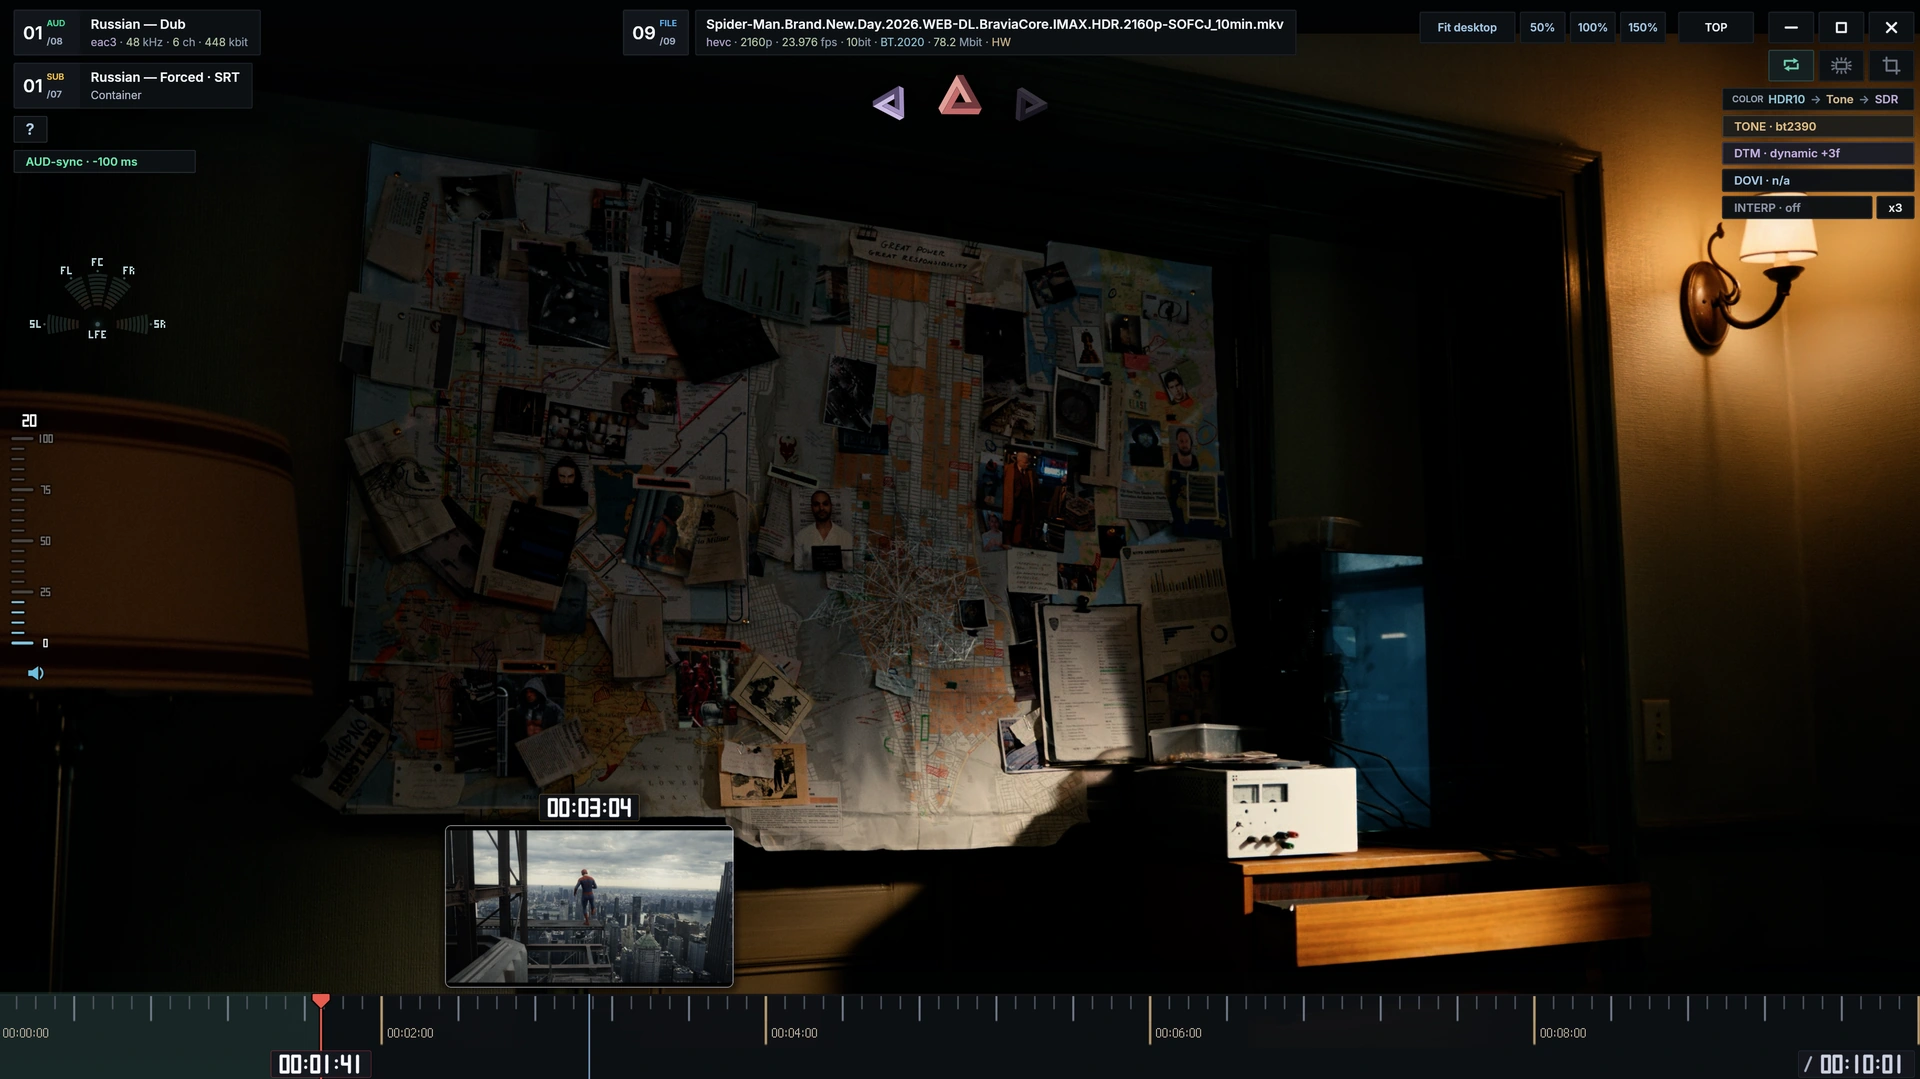
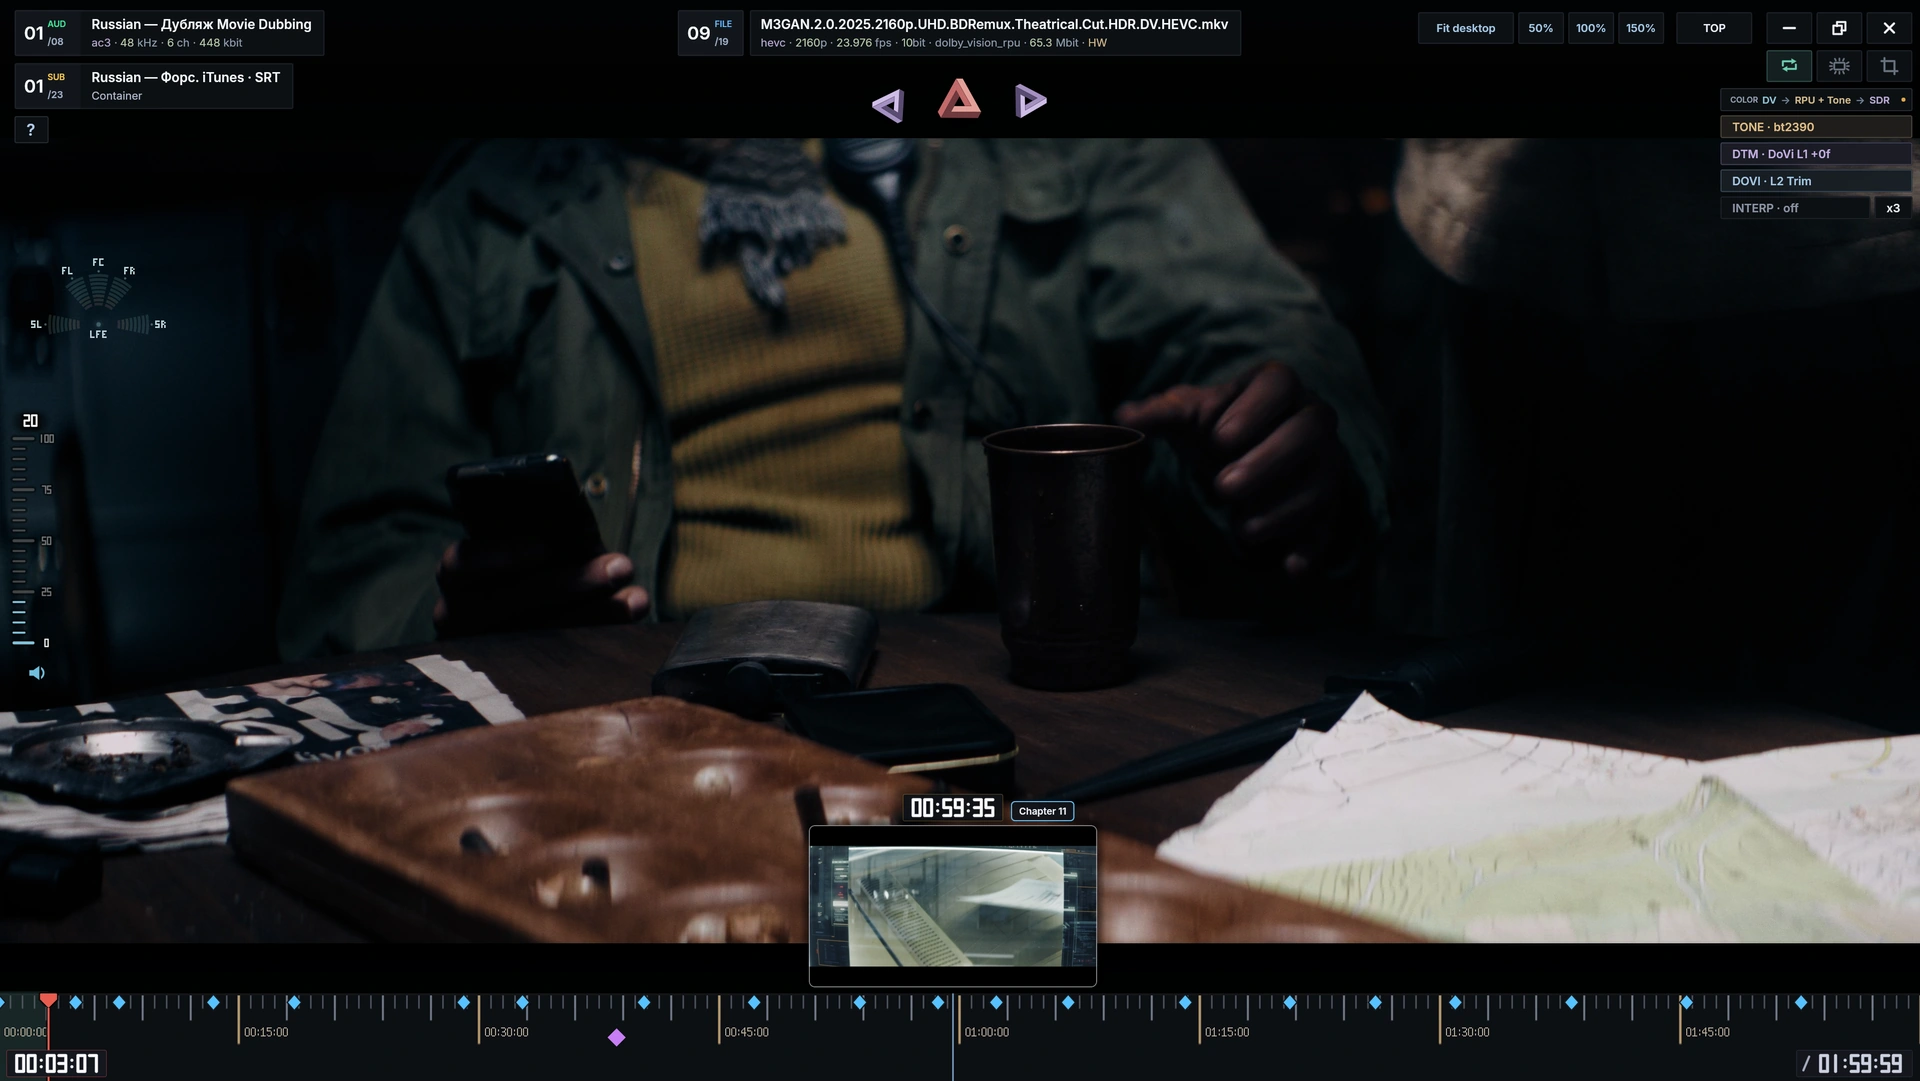
Update playback HUD screenshot

diff --git a/README.md b/README.md
@@ -21,7 +21,7 @@ Windows video player for high-refresh displays, HDR films and a more visual way 
 <td width="50%" valign="top">
 <strong>Playback HUD</strong><br>
 See the HDR-to-display color path and tone-mapping mode. Scrub the timeline with visual previews.<br><br>
-<a href="assets/hud.webp"><img src="assets/hud.webp" alt="Playback HUD: HDR10-to-SDR color path, dynamic tone mapping, audio layout and timeline preview" width="100%"></a>
+<a href="assets/hud.webp"><img src="assets/hud.webp" alt="Playback HUD: Dolby Vision color path, tone mapping, audio layout and timeline previews with chapters and marks" width="100%"></a>
 </td>
 <td width="50%" valign="top">
 <strong>Frame generation controls</strong><br>
